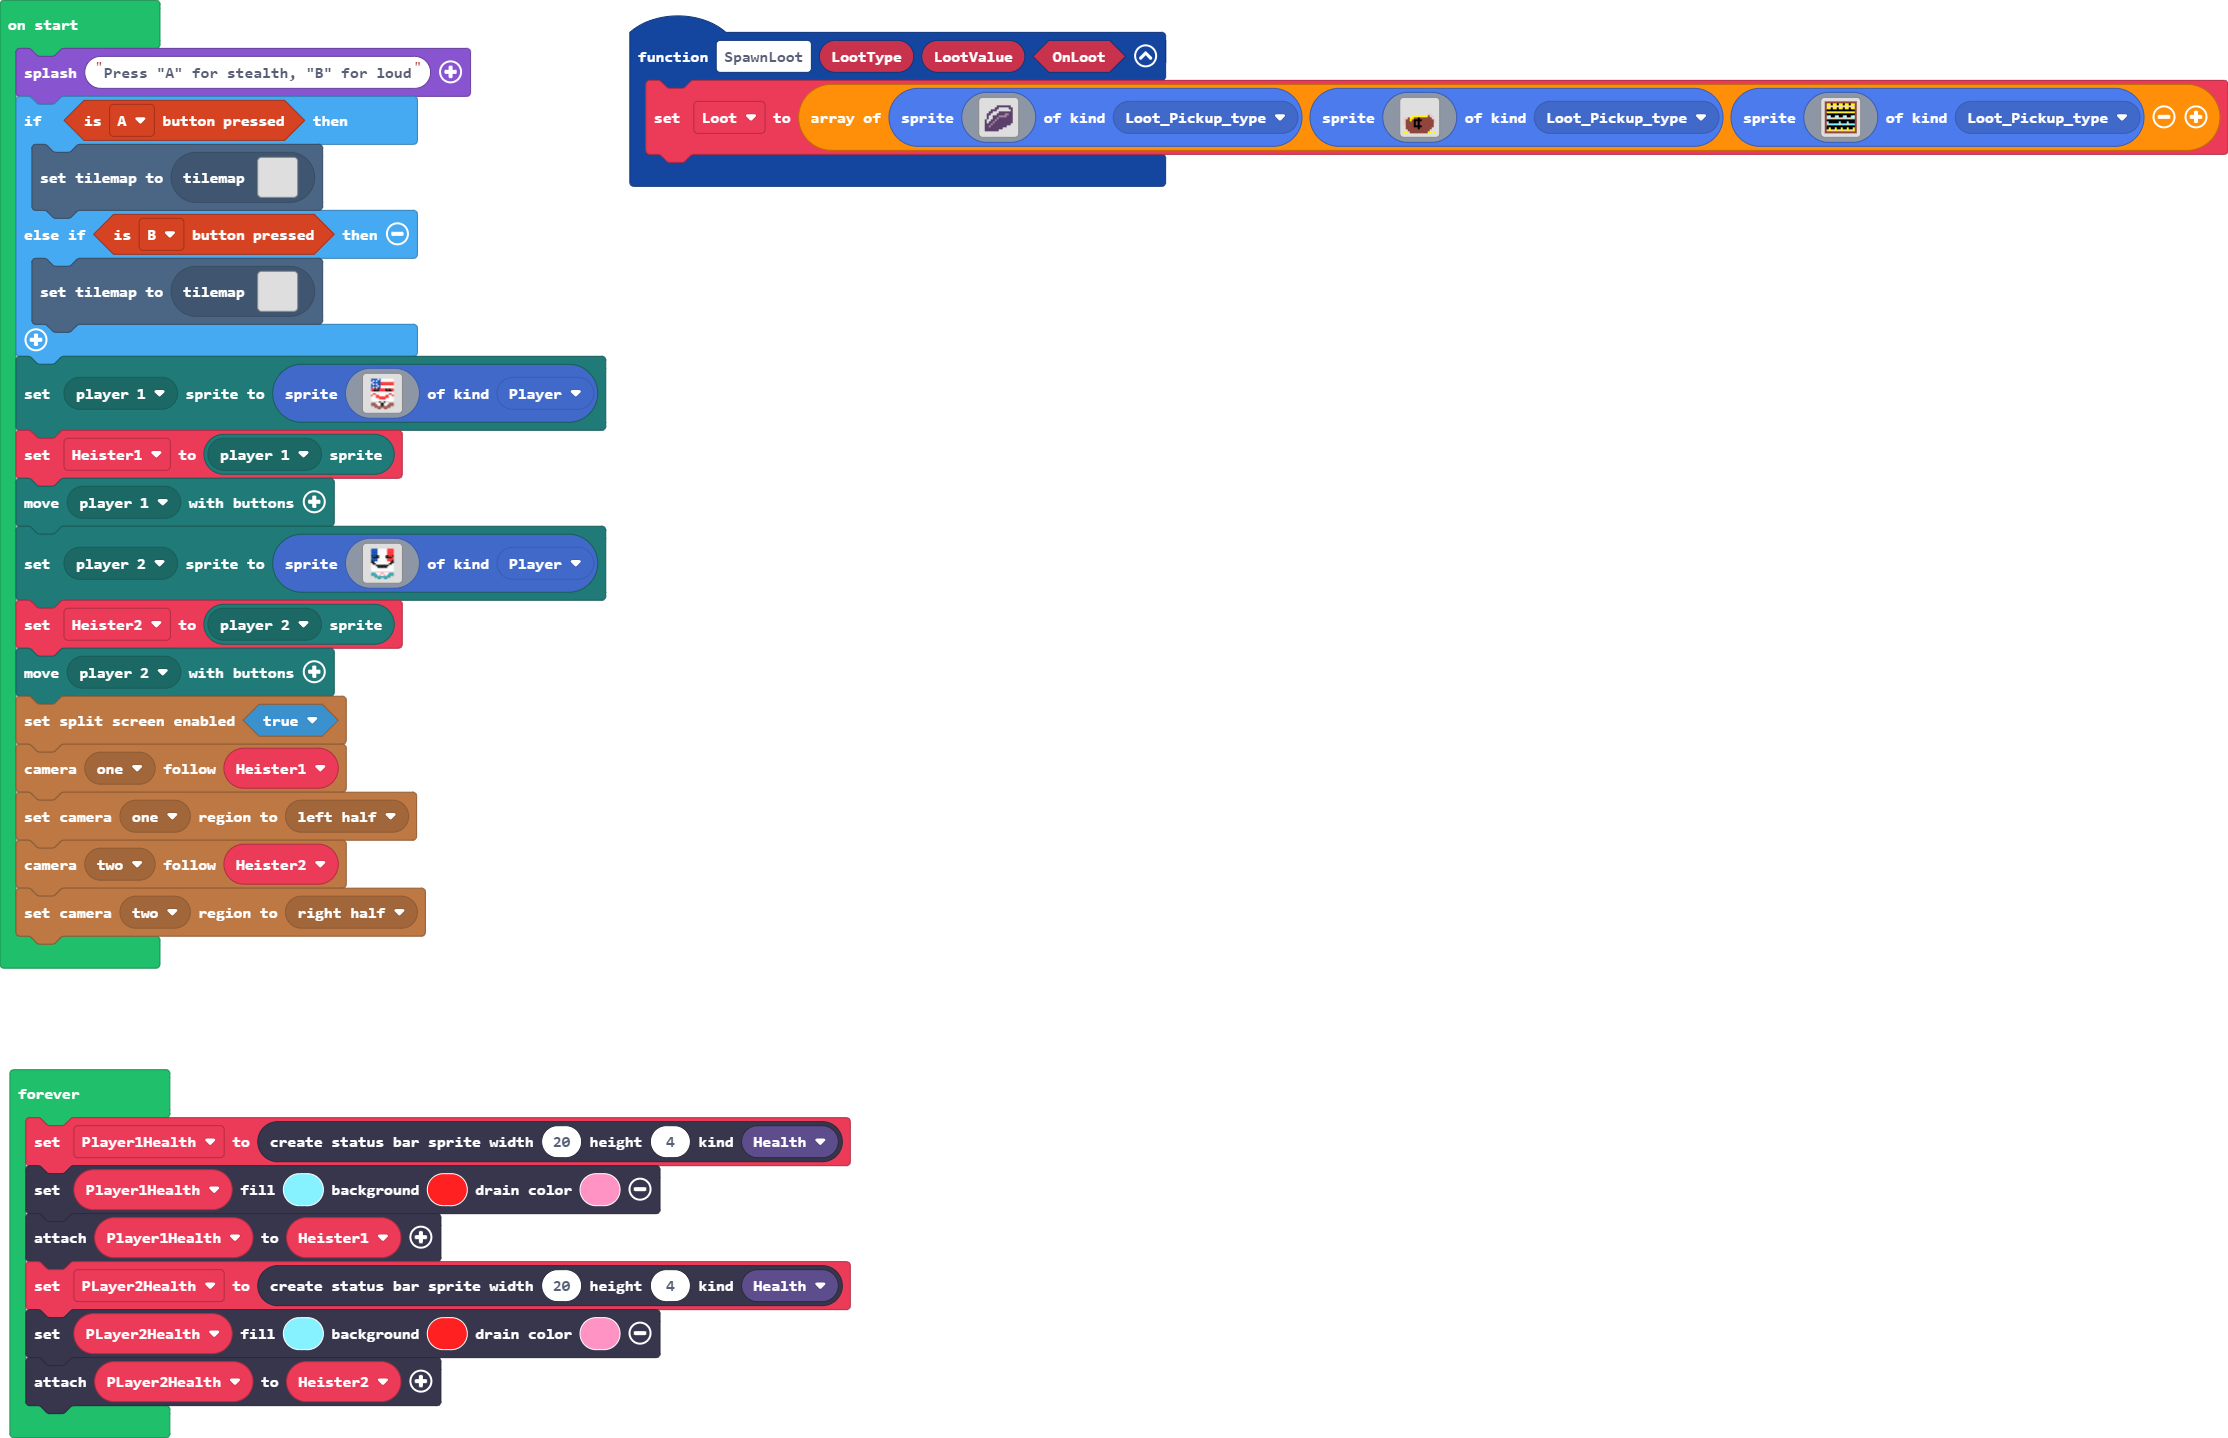
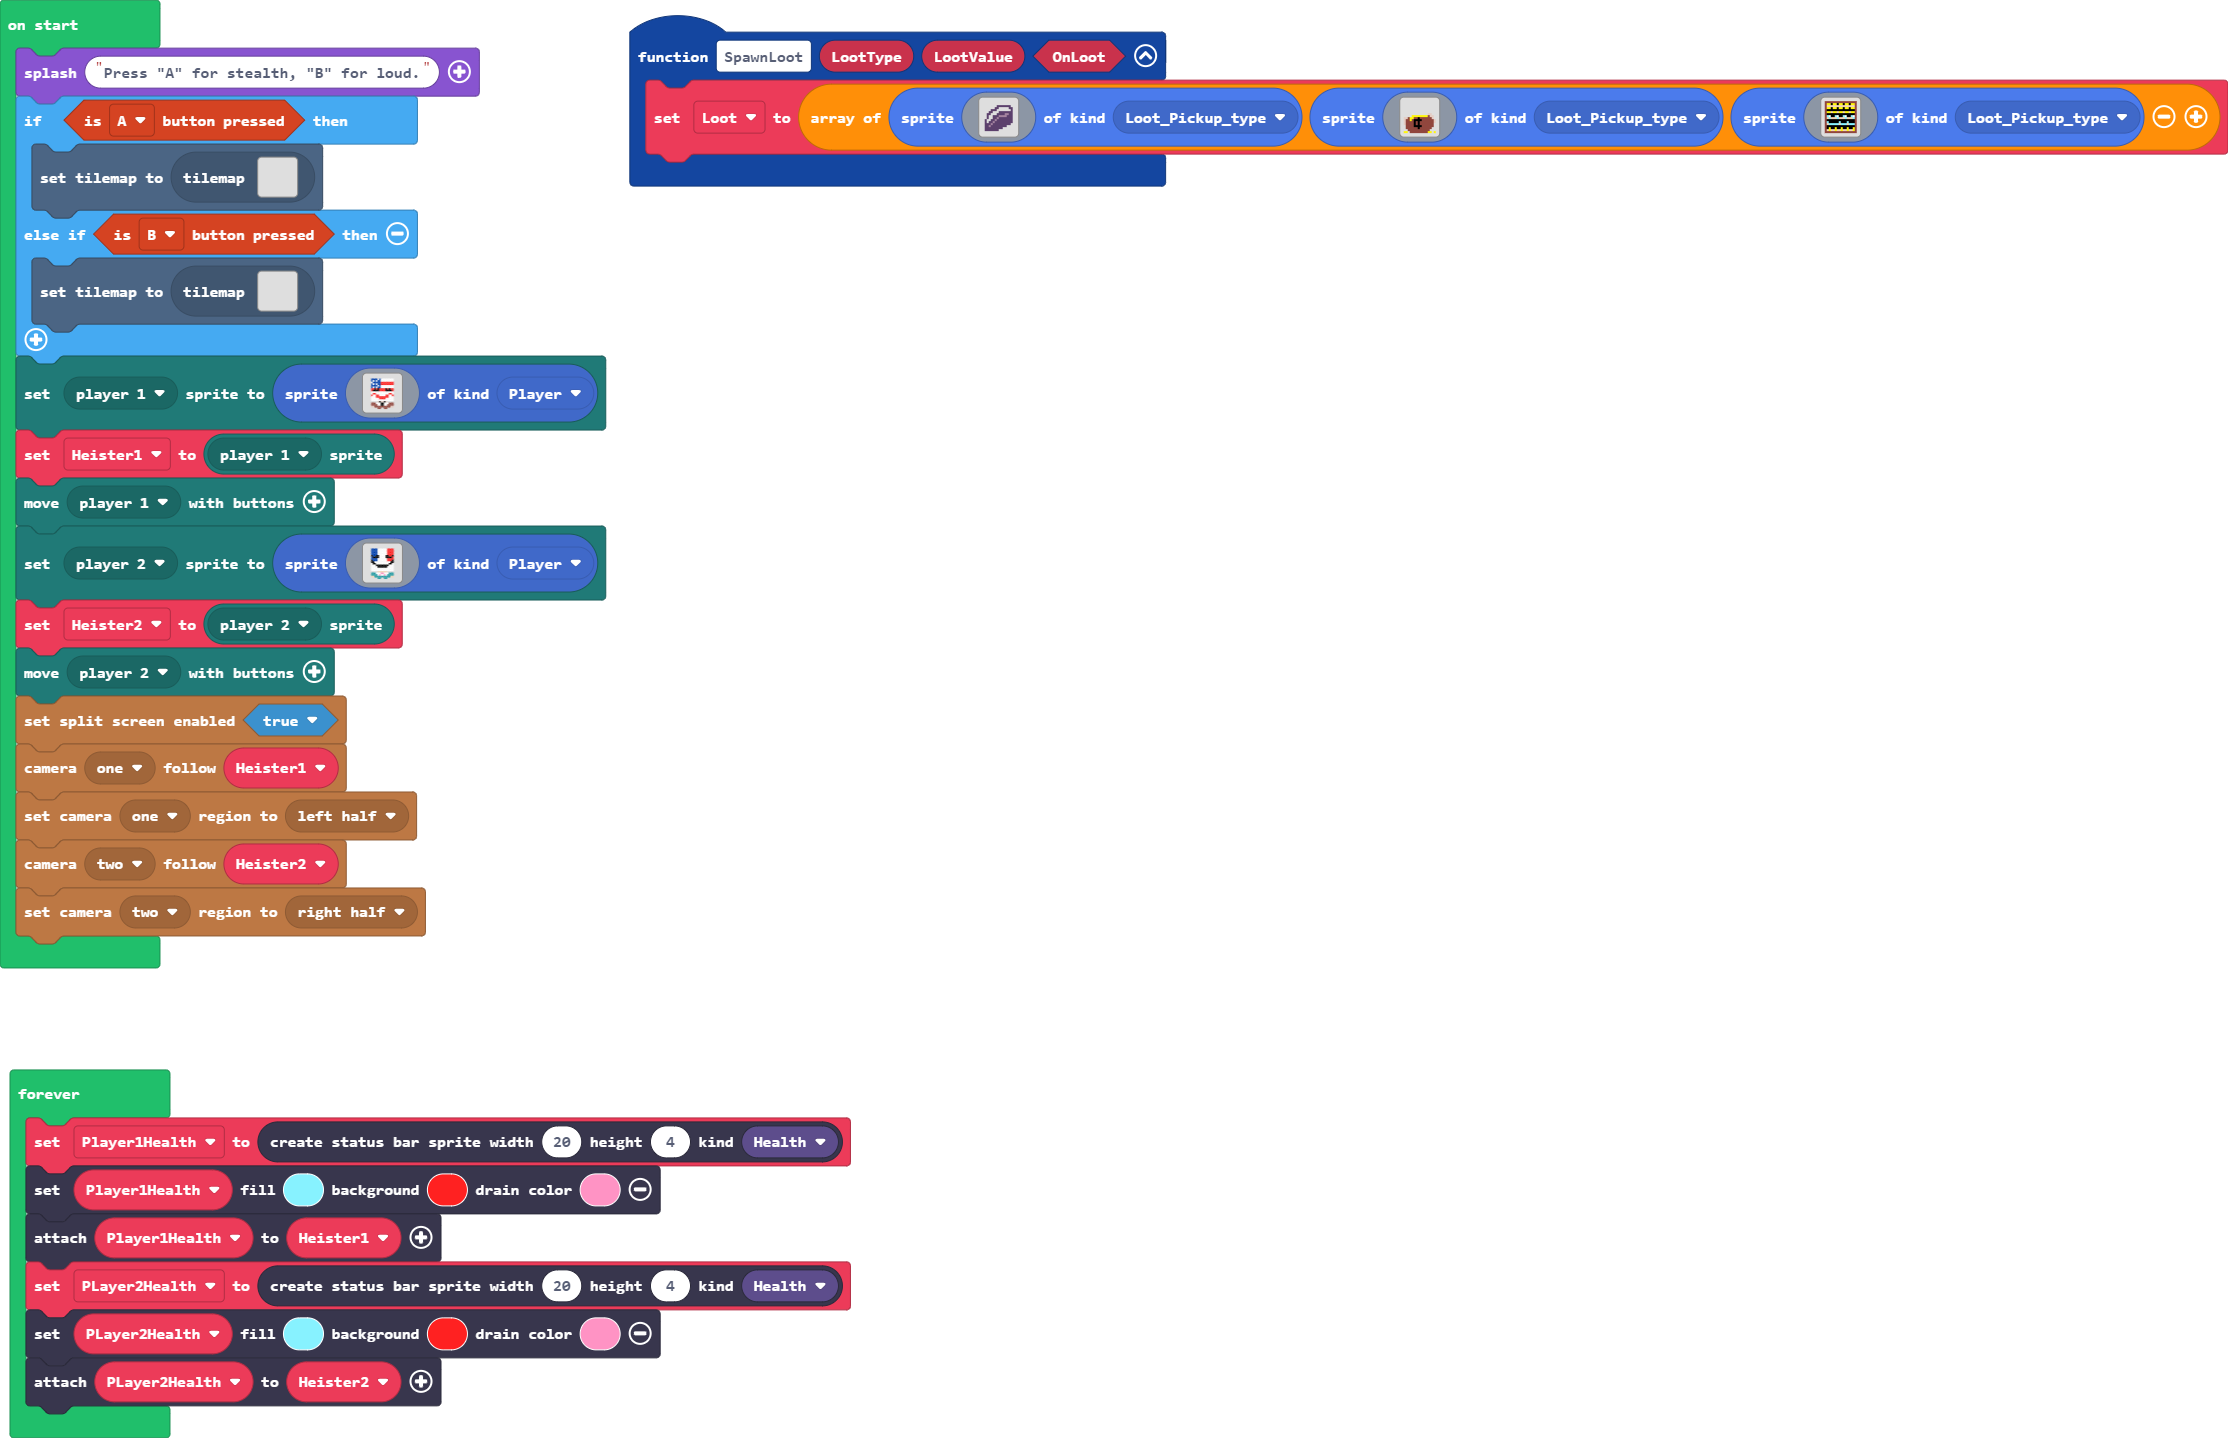
still block mode

Changed region(s): [[0.8052, 0.0612, 0.8362, 0.0918], [0.1858, 0.0306, 0.2168, 0.0612]]

diff --git a/main.ts b/main.ts
@@ -7,7 +7,7 @@ function SpawnLoot (LootType: string, LootValue: number, OnLoot: boolean) {
 let PLayer2Health: StatusBarSprite = null
 let Player1Health: StatusBarSprite = null
 let Loot: Sprite[] = []
-game.splash("Press \"A\" for stealth, \"B\" for loud")
+game.splash("Press \"A\" for stealth, \"B\" for loud.")
 if (controller.A.isPressed()) {
     tiles.setCurrentTilemap(tilemap`level1`)
 } else if (controller.B.isPressed()) {
